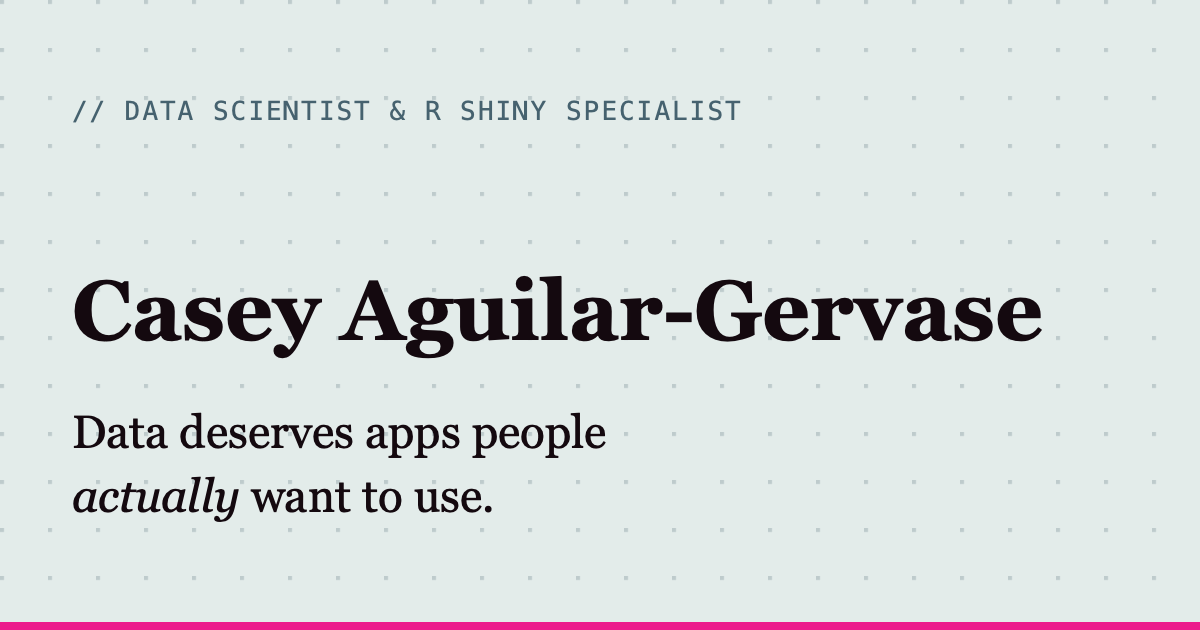
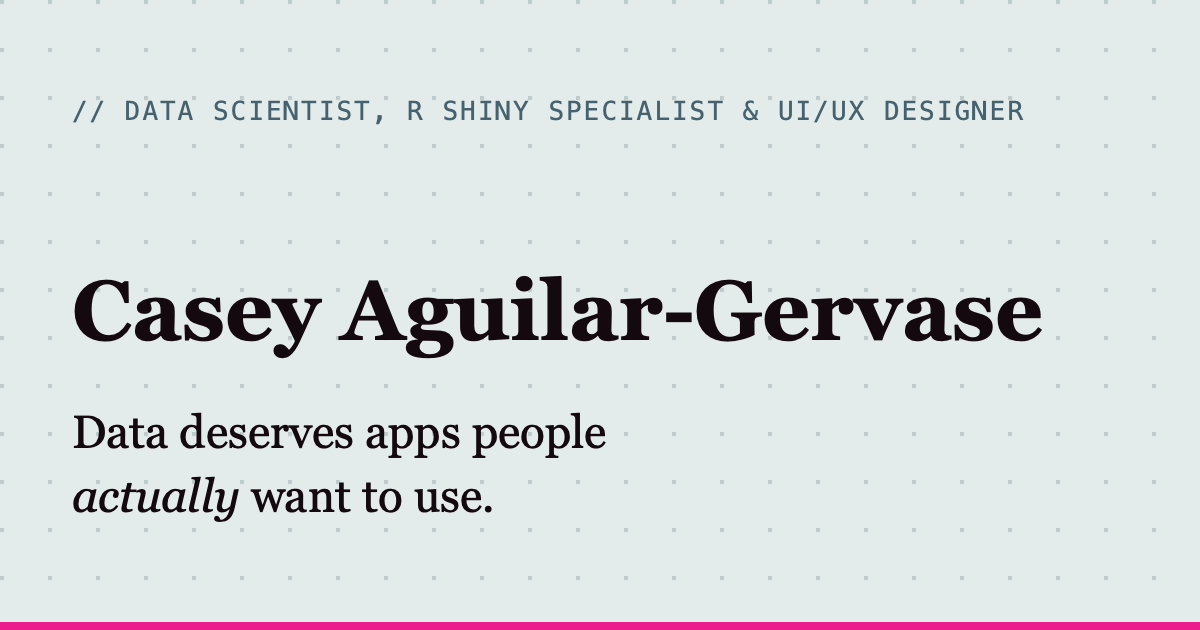
Title: Data Scientist, R Shiny Specialist & UI/UX Designer

Changed region(s): [[0.3083, 0.1508, 0.8633, 0.2111]]

diff --git a/tests/check_site.py b/tests/check_site.py
@@ -252,7 +252,7 @@ def home_hero():
     html = page("index.html")
     assert "Data deserves apps people" in html, "hero headline missing"
     assert '<span class="hl">actually</span>' in html, "'actually' should carry the highlighter class"
-    assert "Data Scientist &amp; R Shiny Specialist" in html, "hero label missing"
+    assert "Data Scientist, R Shiny Specialist &amp; UI/UX Designer" in html, "hero label missing"
 
 
 @check
@@ -412,7 +412,7 @@ def social_metas(html):
     return metas
 
 
-SITE_WIDE_ALT = "Casey Aguilar-Gervase, Data Scientist & R Shiny Specialist"
+SITE_WIDE_ALT = "Casey Aguilar-Gervase, Data Scientist, R Shiny Specialist & UI/UX Designer"
 
 
 @check
